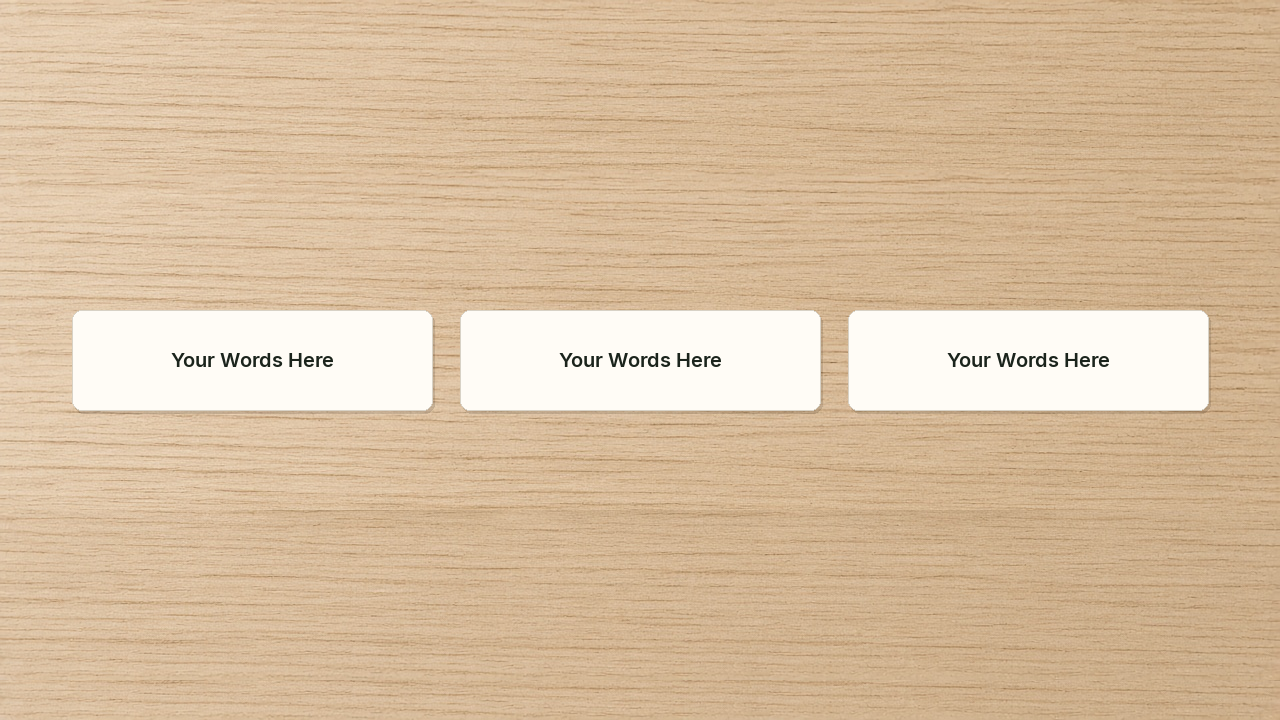
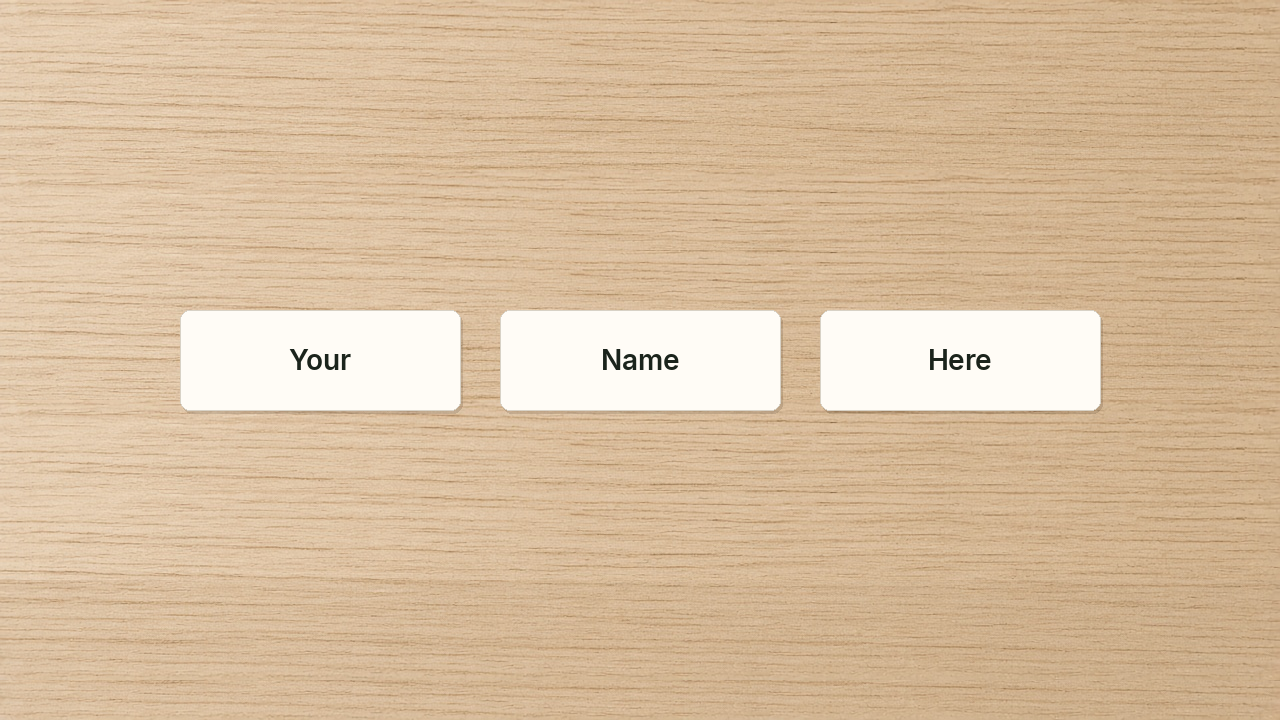
Show Custom Words as Your, Name, Here on three tiles
One title-case word per tile, same picture on the home card and the detail page. Price stays $12. Old wood stays.

diff --git a/pack-custom.html b/pack-custom.html
@@ -8,7 +8,7 @@
   <link rel="preconnect" href="https://fonts.googleapis.com">
   <link rel="preconnect" href="https://fonts.gstatic.com" crossorigin>
   <link href="https://fonts.googleapis.com/css2?family=Fraunces:opsz,wght@9..144,600&family=Nunito+Sans:wght@500;700;800&display=swap" rel="stylesheet">
-  <link rel="stylesheet" href="css/styles.css?v=2.52">
+  <link rel="stylesheet" href="css/styles.css?v=2.53">
 </head>
 <body>
   <div id="site-header"></div>
@@ -16,7 +16,7 @@
     <div>
       <div class="board-stage photo-stage" role="region" aria-label="Custom Words on light wood.">
         <figure class="hero-photo-frame">
-          <img src="images/custom-words-hero.png" width="1280" height="720" alt="Three white magnetic tiles on light wood, each reading Your Words Here.">
+          <img src="images/custom-words-hero.png" width="1280" height="720" alt="Three white magnetic tiles on light wood, one word each: Your, Name, Here.">
         </figure>
       </div>
     </div>
@@ -40,7 +40,7 @@
   </main>
   <footer id="site-footer" class="wrap"></footer>
   <script src="js/store.js"></script>
-  <script src="js/site.js?v=2.52"></script>
+  <script src="js/site.js?v=2.53"></script>
   <script src="js/custom-pack.js"></script>
 </body>
 </html>

diff --git a/house-rules.html b/house-rules.html
@@ -9,7 +9,7 @@
   <link rel="preconnect" href="https://fonts.googleapis.com">
   <link rel="preconnect" href="https://fonts.gstatic.com" crossorigin>
   <link href="https://fonts.googleapis.com/css2?family=DM+Sans:ital,opsz,wght@0,9..40,500;0,9..40,600;0,9..40,700;1,9..40,500&family=Fraunces:opsz,wght@9..144,600&family=Nunito+Sans:wght@500;700;800&display=swap" rel="stylesheet">
-  <link rel="stylesheet" href="css/styles.css?v=2.52">
+  <link rel="stylesheet" href="css/styles.css?v=2.53">
 </head>
 <body>
   <div id="site-header"></div>
@@ -38,7 +38,7 @@
   </main>
   <footer id="site-footer" class="wrap"></footer>
   <script src="js/store.js"></script>
-  <script src="js/site.js?v=2.52"></script>
+  <script src="js/site.js?v=2.53"></script>
   <script src="js/photo-board.js"></script>
 </body>
 </html>

diff --git a/meal-plan.html b/meal-plan.html
@@ -9,7 +9,7 @@
   <link rel="preconnect" href="https://fonts.googleapis.com">
   <link rel="preconnect" href="https://fonts.gstatic.com" crossorigin>
   <link href="https://fonts.googleapis.com/css2?family=DM+Sans:ital,opsz,wght@0,9..40,500;0,9..40,600;0,9..40,700;1,9..40,500&family=Fraunces:opsz,wght@9..144,600&family=Nunito+Sans:wght@500;700;800&display=swap" rel="stylesheet">
-  <link rel="stylesheet" href="css/styles.css?v=2.52">
+  <link rel="stylesheet" href="css/styles.css?v=2.53">
 </head>
 <body>
   <div id="site-header"></div>
@@ -38,7 +38,7 @@
   </main>
   <footer id="site-footer" class="wrap"></footer>
   <script src="js/store.js"></script>
-  <script src="js/site.js?v=2.52"></script>
+  <script src="js/site.js?v=2.53"></script>
   <script src="js/photo-board.js"></script>
 </body>
 </html>

diff --git a/routines.html b/routines.html
@@ -9,7 +9,7 @@
   <link rel="preconnect" href="https://fonts.googleapis.com">
   <link rel="preconnect" href="https://fonts.gstatic.com" crossorigin>
   <link href="https://fonts.googleapis.com/css2?family=DM+Sans:ital,opsz,wght@0,9..40,500;0,9..40,600;0,9..40,700;1,9..40,500&family=Fraunces:opsz,wght@9..144,600&family=Nunito+Sans:wght@500;700;800&display=swap" rel="stylesheet">
-  <link rel="stylesheet" href="css/styles.css?v=2.52">
+  <link rel="stylesheet" href="css/styles.css?v=2.53">
 </head>
 <body>
   <div id="site-header"></div>
@@ -49,7 +49,7 @@
   </main>
   <footer id="site-footer" class="wrap"></footer>
   <script src="js/store.js"></script>
-  <script src="js/site.js?v=2.52"></script>
+  <script src="js/site.js?v=2.53"></script>
   <script src="js/photo-board.js"></script>
 </body>
 </html>

diff --git a/shopping-list.html b/shopping-list.html
@@ -9,7 +9,7 @@
   <link rel="preconnect" href="https://fonts.googleapis.com">
   <link rel="preconnect" href="https://fonts.gstatic.com" crossorigin>
   <link href="https://fonts.googleapis.com/css2?family=DM+Sans:ital,opsz,wght@0,9..40,500;0,9..40,600;0,9..40,700;1,9..40,500&family=Fraunces:opsz,wght@9..144,600&family=Nunito+Sans:wght@500;700;800&display=swap" rel="stylesheet">
-  <link rel="stylesheet" href="css/styles.css?v=2.52">
+  <link rel="stylesheet" href="css/styles.css?v=2.53">
 </head>
 <body>
   <div id="site-header"></div>
@@ -38,7 +38,7 @@
   </main>
   <footer id="site-footer" class="wrap"></footer>
   <script src="js/store.js"></script>
-  <script src="js/site.js?v=2.52"></script>
+  <script src="js/site.js?v=2.53"></script>
   <script src="js/photo-board.js"></script>
 </body>
 </html>

diff --git a/weekly.html b/weekly.html
@@ -9,7 +9,7 @@
   <link rel="preconnect" href="https://fonts.googleapis.com">
   <link rel="preconnect" href="https://fonts.gstatic.com" crossorigin>
   <link href="https://fonts.googleapis.com/css2?family=DM+Sans:ital,opsz,wght@0,9..40,500;0,9..40,600;0,9..40,700;1,9..40,500&family=Fraunces:opsz,wght@9..144,600&family=Nunito+Sans:wght@500;700;800&display=swap" rel="stylesheet">
-  <link rel="stylesheet" href="css/styles.css?v=2.52">
+  <link rel="stylesheet" href="css/styles.css?v=2.53">
 </head>
 <body>
   <div id="site-header"></div>
@@ -46,7 +46,7 @@
   </main>
   <footer id="site-footer" class="wrap"></footer>
   <script src="js/store.js"></script>
-  <script src="js/site.js?v=2.52"></script>
+  <script src="js/site.js?v=2.53"></script>
   <script src="js/photo-board.js"></script>
 </body>
 </html>

diff --git a/chores.html b/chores.html
@@ -9,7 +9,7 @@
   <link rel="preconnect" href="https://fonts.googleapis.com">
   <link rel="preconnect" href="https://fonts.gstatic.com" crossorigin>
   <link href="https://fonts.googleapis.com/css2?family=DM+Sans:ital,opsz,wght@0,9..40,500;0,9..40,600;0,9..40,700;1,9..40,500&family=Fraunces:opsz,wght@9..144,600&family=Nunito+Sans:wght@500;700;800&display=swap" rel="stylesheet">
-  <link rel="stylesheet" href="css/styles.css?v=2.52">
+  <link rel="stylesheet" href="css/styles.css?v=2.53">
 </head>
 <body>
   <div id="site-header"></div>
@@ -46,7 +46,7 @@
   </main>
   <footer id="site-footer" class="wrap"></footer>
   <script src="js/store.js"></script>
-  <script src="js/site.js?v=2.52"></script>
+  <script src="js/site.js?v=2.53"></script>
   <script src="js/chores.js"></script>
 </body>
 </html>

diff --git a/pack-chores.html b/pack-chores.html
@@ -9,7 +9,7 @@
   <link rel="preconnect" href="https://fonts.googleapis.com">
   <link rel="preconnect" href="https://fonts.gstatic.com" crossorigin>
   <link href="https://fonts.googleapis.com/css2?family=DM+Sans:opsz,wght@9..40,600&family=Fraunces:opsz,wght@9..144,600&family=Nunito+Sans:wght@500;700;800&display=swap" rel="stylesheet">
-  <link rel="stylesheet" href="css/styles.css?v=2.52">
+  <link rel="stylesheet" href="css/styles.css?v=2.53">
 </head>
 <body>
   <div id="site-header"></div>
@@ -34,7 +34,7 @@
   </main>
   <footer id="site-footer" class="wrap"></footer>
   <script src="js/store.js"></script>
-  <script src="js/site.js?v=2.52"></script>
+  <script src="js/site.js?v=2.53"></script>
   <script src="js/photo-pack.js"></script>
 </body>
 </html>

diff --git a/pack-days.html b/pack-days.html
@@ -9,7 +9,7 @@
   <link rel="preconnect" href="https://fonts.googleapis.com">
   <link rel="preconnect" href="https://fonts.gstatic.com" crossorigin>
   <link href="https://fonts.googleapis.com/css2?family=DM+Sans:opsz,wght@9..40,600&family=Fraunces:opsz,wght@9..144,600&family=Nunito+Sans:wght@500;700;800&display=swap" rel="stylesheet">
-  <link rel="stylesheet" href="css/styles.css?v=2.52">
+  <link rel="stylesheet" href="css/styles.css?v=2.53">
 </head>
 <body>
   <div id="site-header"></div>
@@ -34,7 +34,7 @@
   </main>
   <footer id="site-footer" class="wrap"></footer>
   <script src="js/store.js"></script>
-  <script src="js/site.js?v=2.52"></script>
+  <script src="js/site.js?v=2.53"></script>
   <script src="js/photo-pack.js"></script>
 </body>
 </html>

diff --git a/pen-holder.html b/pen-holder.html
@@ -9,7 +9,7 @@
   <link rel="preconnect" href="https://fonts.googleapis.com">
   <link rel="preconnect" href="https://fonts.gstatic.com" crossorigin>
   <link href="https://fonts.googleapis.com/css2?family=DM+Sans:opsz,wght@9..40,600&family=Fraunces:opsz,wght@9..144,600&family=Nunito+Sans:wght@500;700;800&display=swap" rel="stylesheet">
-  <link rel="stylesheet" href="css/styles.css?v=2.52">
+  <link rel="stylesheet" href="css/styles.css?v=2.53">
 </head>
 <body>
   <div id="site-header"></div>
@@ -34,7 +34,7 @@
   </main>
   <footer id="site-footer" class="wrap"></footer>
   <script src="js/store.js"></script>
-  <script src="js/site.js?v=2.52"></script>
+  <script src="js/site.js?v=2.53"></script>
   <script src="js/photo-pack.js"></script>
 </body>
 </html>

diff --git a/success.html b/success.html
@@ -8,7 +8,7 @@
   <link rel="preconnect" href="https://fonts.googleapis.com">
   <link rel="preconnect" href="https://fonts.gstatic.com" crossorigin>
   <link href="https://fonts.googleapis.com/css2?family=Fraunces:opsz,wght@9..144,600&family=Nunito+Sans:wght@500;700;800&display=swap" rel="stylesheet">
-  <link rel="stylesheet" href="css/styles.css?v=2.52">
+  <link rel="stylesheet" href="css/styles.css?v=2.53">
 </head>
 <body>
   <div id="site-header"></div>
@@ -21,7 +21,7 @@
   </main>
   <footer id="site-footer" class="wrap"></footer>
   <script src="js/store.js"></script>
-  <script src="js/site.js?v=2.52"></script>
+  <script src="js/site.js?v=2.53"></script>
   <script src="js/success-page.js"></script>
 </body>
 </html>

diff --git a/pack-emoji.html b/pack-emoji.html
@@ -8,7 +8,7 @@
   <link rel="preconnect" href="https://fonts.googleapis.com">
   <link rel="preconnect" href="https://fonts.gstatic.com" crossorigin>
   <link href="https://fonts.googleapis.com/css2?family=Fraunces:opsz,wght@9..144,600&family=Nunito+Sans:wght@500;700;800&display=swap" rel="stylesheet">
-  <link rel="stylesheet" href="css/styles.css?v=2.52">
+  <link rel="stylesheet" href="css/styles.css?v=2.53">
 </head>
 <body>
   <div id="site-header"></div>
@@ -33,7 +33,7 @@
   </main>
   <footer id="site-footer" class="wrap"></footer>
   <script src="js/store.js"></script>
-  <script src="js/site.js?v=2.52"></script>
+  <script src="js/site.js?v=2.53"></script>
   <script src="js/photo-pack.js"></script>
 </body>
 </html>
